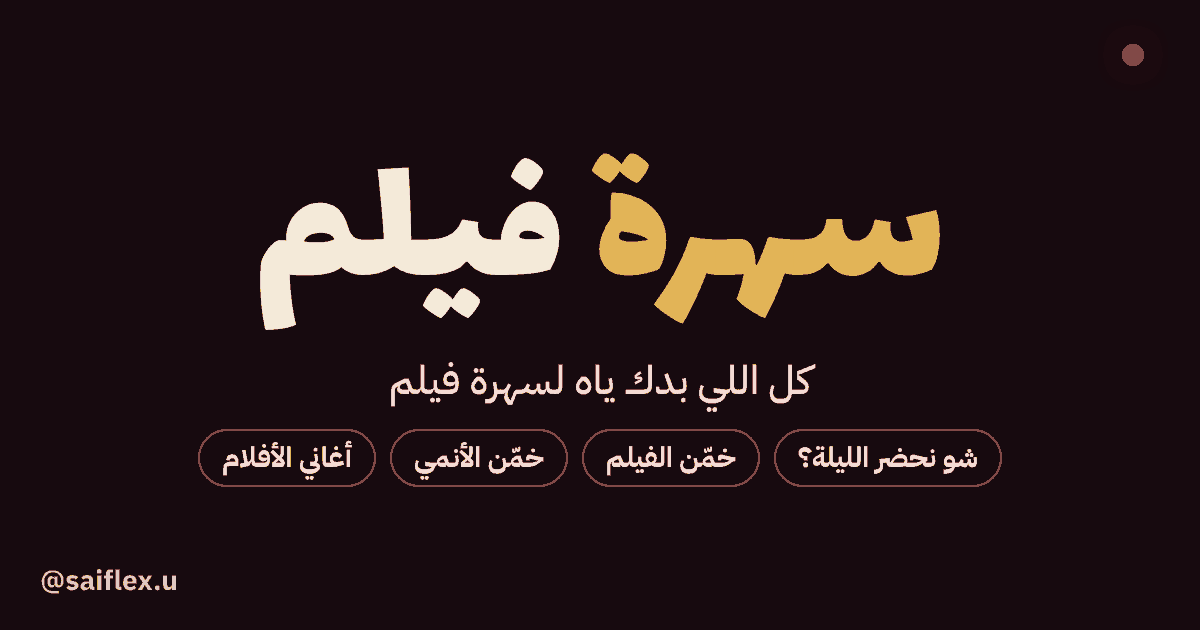
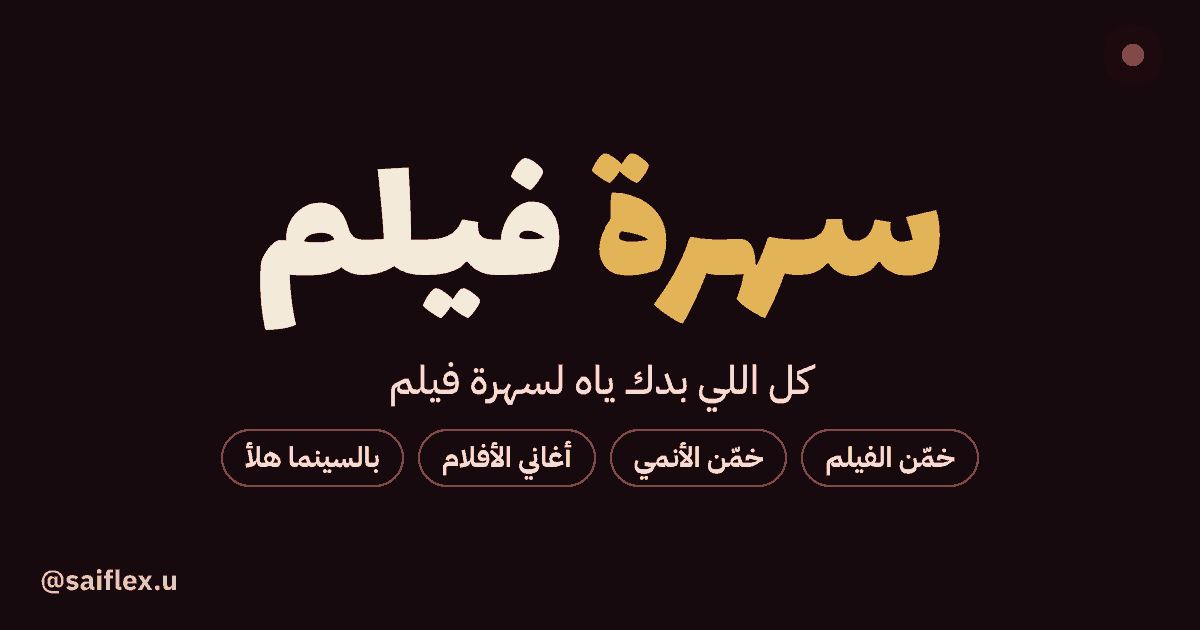
Remove 'شو نحضر الليلة' page and all links to it

Changed region(s): [[0.185, 0.6635, 0.8325, 0.7841]]

diff --git a/tonight.html b/tonight.html
@@ -1,158 +1,5 @@
 <!DOCTYPE html>
 <html lang="ar" dir="rtl">
-<head>
-<meta charset="utf-8">
-<meta name="viewport" content="width=device-width, initial-scale=1">
-<title>شو نحضر الليلة؟ | سهرة فيلم</title>
-<meta name="description" content="مش عارف شو تحضر الليلة؟ جاوب 3 أسئلة بسهرة فيلم وخذ فيلم واحد بيناسب مزاجك ووقتك واللي قاعدين معك.">
-<link rel="canonical" href="https://sahra-zblk.onrender.com/tonight.html">
-<meta property="og:site_name" content="سهرة فيلم">
-<meta property="og:type" content="website">
-<meta property="og:locale" content="ar_AE">
-<meta property="og:title" content="شو نحضر الليلة؟ | سهرة فيلم">
-<meta property="og:description" content="مش عارف شو تحضر الليلة؟ جاوب 3 أسئلة بسهرة فيلم وخذ فيلم واحد بيناسب مزاجك ووقتك واللي قاعدين معك.">
-<meta property="og:url" content="https://sahra-zblk.onrender.com/tonight.html">
-<meta property="og:image" content="https://sahra-zblk.onrender.com/og.png">
-<meta property="og:image:width" content="1200">
-<meta property="og:image:height" content="630">
-<meta name="twitter:card" content="summary_large_image">
-<meta name="theme-color" content="#170a0f">
-<link rel="icon" href="favicon.svg" type="image/svg+xml">
-<link rel="preconnect" href="https://fonts.googleapis.com">
-<link rel="preconnect" href="https://fonts.gstatic.com" crossorigin>
-<link href="https://fonts.googleapis.com/css2?family=Lalezar&family=IBM+Plex+Sans+Arabic:wght@400;500;700&display=swap" rel="stylesheet">
-<link rel="stylesheet" href="style.css">
-</head>
-<body data-page="tonight">
-<nav class="nav" aria-label="أقسام الموقع">
-  <div class="nav-in">
-    <a class="logo" href="index.html"><span class="dot" aria-hidden="true"></span>سهرة <b>فيلم</b></a>
-    <div class="nav-links">
-      <a href="tonight.html" data-page="tonight">شو نحضر الليلة؟</a>
-      <a href="game.html" data-page="game">خمّن الفيلم</a>
-      <a href="anime.html" data-page="anime">خمّن الأنمي</a>
-      <a href="music.html" data-page="music">أغاني الأفلام</a>
-      <a href="feedback.html" data-page="feedback">اقتراحاتك</a>
-      <a href="support.html" data-page="support" class="nav-support">ادعمنا ♥</a>
-    </div>
-  </div>
-</nav>
-<main class="wrap">
-  <header class="page-head">
-    <h1>شو نحضر الليلة؟</h1>
-    <p>مش قائمة طويلة تحتار فيها. ترشيح واحد من آلاف الأفلام بيناسب مزاجك ووقتك واللي قاعدين معك.</p>
-  </header>
-  <section class="hall" aria-label="الأسئلة والترشيح">
-    <div class="tonight">
-      <div class="qs">
-        <div class="q"><span class="q-label" id="q-with">مين معك؟</span><div class="chips" role="group" aria-labelledby="q-with" data-q="with"></div></div>
-        <div class="q"><span class="q-label" id="q-mood">شو مزاجك؟</span><div class="chips" role="group" aria-labelledby="q-mood" data-q="mood"></div></div>
-        <div class="q"><span class="q-label" id="q-time">قديش عندك وقت؟</span><div class="chips" role="group" aria-labelledby="q-time" data-q="time"></div></div>
-        <div class="q"><span class="q-label" id="q-type">شو بدك تحضر؟</span><div class="chips" role="group" aria-labelledby="q-type" data-q="type"></div></div>
-      </div>
-      <div><article class="ticket" id="pick" aria-live="polite"><p class="why">عم نجهّز الأفلام…</p></article></div>
-    </div>
-  </section>
-</main>
-<footer>
-  <div class="wrap">
-    <span>سهرة فيلم · فكرة وإعداد saiflex · <span id="updated" class="updated"></span></span>
-    <a class="credits" href="credits.html">المصادر</a>
-  </div>
-</footer>
-<script src="curated.js"></script>
-<script src="common.js"></script>
-<script>
-const MOOD_AR = {think:"بدي أفكّر",laugh:"بدي أضحك",cry:"بدي أبكي",action:"بدي أكشن",scare:"بدي أخاف"};
-// need: لازم يكون من نوعه، also: قريب منه، bad: بيخرب المزاج (مثلاً الطفيلي كوميدي بس كمان إثارة وجريمة)
-const MOOD_G = {
-  laugh: {need:[35], also:[], bad:[27,53,80,10752,9648,99,36], soft:[18]},
-  scare: {need:[27], also:[53], bad:[35,10751,16,10749,10402], soft:[]},
-  cry:   {need:[18], also:[10749,10751,10402,36,10752,16], bad:[35,27,28,878,14,12,80,53], soft:[]},
-  action:{need:[28], also:[12,10752,37], bad:[10749,99,10402,27], soft:[18,35]},
-  think: {need:[9648,878], also:[80,99,36,53], bad:[35,10751,16,10749,10402,12], soft:[28]},
-};
-const moodFit = f => { const g = f.g || [], m = MOOD_G[state.mood]; return m.need.some(x => g.includes(x)) ? 2 : m.also.some(x => g.includes(x)) ? 1 : 0; };
-const WITH_G = {family:[10751,16], partner:[10749,18,35], friends:[35,28,27,53,80], alone:[18,878,9648,53,99]};
-const QUESTIONS = {
-  with:[["alone","لحالي"],["partner","مع حدا قريب"],["family","مع العيلة"],["friends","مع الشباب"]],
-  mood:Object.entries(MOOD_AR),
-  time:[["short","ساعة ونص"],["mid","ساعتين"],["long","الليل كله"]],
-  type:[["any","أي شي"],["foreign","أجنبي"],["arab","عربي"],["anime","أنمي"]]
-};
-const state = {with:"friends",mood:"think",time:"long",type:"any"};
-let ranked = [], rankPos = 0;
-const today = new Date().toISOString().slice(0, 10);
-
-function buildChips() {
-  document.querySelectorAll(".chips").forEach(box => {
-    const q = box.dataset.q;
-    QUESTIONS[q].forEach(([val, label]) => {
-      const b = el("button", {type:"button", class:"chip", "aria-pressed":String(state[q] === val), "data-v":val}, label);
-      b.addEventListener("click", () => {
-        state[q] = val;
-        box.querySelectorAll(".chip").forEach(c => c.setAttribute("aria-pressed", String(c.dataset.v === val)));
-        recommend();
-      });
-      box.appendChild(b);
-    });
-  });
-}
-function score(f) {
-  const g = f.g || [];
-  const has = arr => arr.some(x => g.includes(x));
-  let s = 0;
-  const m = MOOD_G[state.mood], fit = moodFit(f);
-  s += fit === 2 ? 14 : fit === 1 ? 5 : -20;
-  if (fit === 2 && m.also.some(x => g.includes(x))) s += 5;
-  s -= 9 * m.bad.filter(x => g.includes(x)).length + 5 * m.soft.filter(x => g.includes(x)).length;
-  if (has(WITH_G[state.with])) s += 3;
-  if (state.with === "family" && g.includes(27)) s -= 20;
-  const max = {short:110, mid:140, long:999}[state.time];
-  if (f.rt) s += f.rt <= max ? 3 : -Math.min(8, (f.rt - max) / 10);
-  const rating = f.ir || f.tv || 6;
-  s += Math.min(rating - 6, 3) * 2 + Math.log10(1 + (f.iv || f.tc || 0)) * 0.6;
-  return s + Math.random() * 2.5;
-}
-function recommend() {
-  const pool = FILMS
-    .filter(f => !f.rd || f.rd <= today)
-    .filter(f => !f.rt || f.rt >= 60)
-    .filter(f => (f.ir || f.tv || 0) >= 6.2)
-    .filter(f => state.type === "any" || typeOf(f) === state.type);
-  const m = MOOD_G[state.mood];
-  const clean = pool.filter(f => moodFit(f) === 2 && !m.bad.some(x => (f.g || []).includes(x)));
-  ranked = (clean.length >= 8 ? clean : pool)
-    .map(f => [score(f), f]).sort((a, b) => b[0] - a[0]).slice(0, 40).map(x => x[1]);
-  rankPos = 0; renderPick();
-}
-function renderPick() {
-  const box = $("#pick");
-  if (!ranked.length) { box.innerHTML = `<p class="why">ما لقينا فيلم بهالاختيارات. جرّب تغيّر نوع الفيلم أو الوقت.</p>`; return; }
-  const f = ranked[rankPos % ranked.length];
-  const why = note(f)?.why || f.ov || "";
-  const genres = (f.g || []).slice(0, 3).map(x => GENRE_AR[x]).filter(Boolean);
-  const music = MUSIC[keyOf(f)] || f.tr;
-  box.innerHTML = `
-    <div class="ticket-top"><span>تذكرة الليلة · ${rankPos % ranked.length + 1}/${ranked.length}</span><span>${TYPE_AR[typeOf(f)]} · ${f.y || ""}</span></div>
-    <div class="pick-wrap">${posterBox(f, "w342")}
-      <div style="display:grid;gap:8px">
-        <div><h3>${esc(titleAr(f))}</h3>${titleAr(f) !== f.en ? `<div class="en">${esc(f.en)}</div>` : ""}</div>
-        <div class="meta">${badges(f)}<span class="tag">⏱ ${timeLabel(f.rt)}</span>${genres.map(x => `<span class="tag">${x}</span>`).join("")}</div>
-        <p class="why">${esc(why)}</p>
-        ${f.pr?.length ? `<div class="prov">متوفر بالإمارات على: <b>${f.pr.map(esc).join("، ")}</b></div>` : f.rb ? `<div class="prov">متوفر للإيجار أو الشراء بالإمارات</div>` : ""}
-      </div>
-    </div>
-    <div class="perf" aria-hidden="true"></div>
-    <div class="actions">
-      <a class="btn btn-red" href="${watchUrl(f)}" target="_blank" rel="noopener">وين أحضره بالإمارات ↗</a>
-      ${music ? `<a class="btn btn-ghost" href="music.html?f=${encodeURIComponent(f.id || keyOf(f))}">♫ أغانيه والتريلر</a>` : ""}
-      <button class="btn btn-ghost" type="button" id="another">رشّحلي غيره</button>
-    </div>`;
-  $("#another").addEventListener("click", () => { rankPos++; renderPick(); });
-}
-buildChips();
-loadFilms().then(recommend);
-</script>
-</body>
+<head><meta charset="utf-8"><meta name="robots" content="noindex"><meta http-equiv="refresh" content="0; url=index.html"><link rel="canonical" href="https://sahra-zblk.onrender.com/"><title>سهرة فيلم</title></head>
+<body><a href="index.html">سهرة فيلم</a></body>
 </html>

diff --git a/index.html b/index.html
@@ -3,14 +3,14 @@
 <head>
 <meta charset="utf-8">
 <meta name="viewport" content="width=device-width, initial-scale=1">
-<title>سهرة فيلم | شو نحضر الليلة، ألعاب أفلام وأنمي وأغاني الأفلام</title>
-<meta name="description" content="سهرة فيلم: موقع عربي للأفلام. اختار فيلم الليلة بثلاث أسئلة، العب خمّن الفيلم وخمّن الأنمي مع صحابك، واسمع أغاني الأفلام، وشوف شو بالسينما هلأ بالإمارات.">
+<title>سهرة فيلم | ألعاب أفلام وأنمي وأغاني الأفلام</title>
+<meta name="description" content="سهرة فيلم: موقع عربي للأفلام. العب خمّن الفيلم وخمّن الأنمي مع صحابك، واسمع أغاني الأفلام، وشوف شو بالسينما هلأ بالإمارات.">
 <link rel="canonical" href="https://sahra-zblk.onrender.com/">
 <meta property="og:site_name" content="سهرة فيلم">
 <meta property="og:type" content="website">
 <meta property="og:locale" content="ar_AE">
-<meta property="og:title" content="سهرة فيلم | شو نحضر الليلة، ألعاب أفلام وأنمي وأغاني الأفلام">
-<meta property="og:description" content="سهرة فيلم: موقع عربي للأفلام. اختار فيلم الليلة بثلاث أسئلة، العب خمّن الفيلم وخمّن الأنمي مع صحابك، واسمع أغاني الأفلام، وشوف شو بالسينما هلأ بالإمارات.">
+<meta property="og:title" content="سهرة فيلم | ألعاب أفلام وأنمي وأغاني الأفلام">
+<meta property="og:description" content="سهرة فيلم: موقع عربي للأفلام. العب خمّن الفيلم وخمّن الأنمي مع صحابك، واسمع أغاني الأفلام، وشوف شو بالسينما هلأ بالإمارات.">
 <meta property="og:url" content="https://sahra-zblk.onrender.com/">
 <meta property="og:image" content="https://sahra-zblk.onrender.com/og.png">
 <meta property="og:image:width" content="1200">
@@ -22,14 +22,13 @@
 <link rel="preconnect" href="https://fonts.gstatic.com" crossorigin>
 <link href="https://fonts.googleapis.com/css2?family=Lalezar&family=IBM+Plex+Sans+Arabic:wght@400;500;700&display=swap" rel="stylesheet">
 <link rel="stylesheet" href="style.css">
-<script type="application/ld+json">{"@context": "https://schema.org", "@type": "WebSite", "name": "سهرة فيلم", "alternateName": ["سهرة", "Sahra Film", "Sahra", "سهرة أفلام"], "url": "https://sahra-zblk.onrender.com/", "inLanguage": "ar", "description": "سهرة فيلم: موقع عربي للأفلام. اختار فيلم الليلة بثلاث أسئلة، العب خمّن الفيلم وخمّن الأنمي مع صحابك، واسمع أغاني الأفلام، وشوف شو بالسينما هلأ بالإمارات.", "publisher": {"@type": "Person", "name": "saiflex", "url": "https://www.instagram.com/saiflex.u/", "sameAs": ["https://www.instagram.com/saiflex.u/"]}}</script>
+<script type="application/ld+json">{"@context": "https://schema.org", "@type": "WebSite", "name": "سهرة فيلم", "alternateName": ["سهرة", "Sahra Film", "Sahra", "سهرة أفلام"], "url": "https://sahra-zblk.onrender.com/", "inLanguage": "ar", "description": "سهرة فيلم: موقع عربي للأفلام. العب خمّن الفيلم وخمّن الأنمي مع صحابك، واسمع أغاني الأفلام، وشوف شو بالسينما هلأ بالإمارات.", "publisher": {"@type": "Person", "name": "saiflex", "url": "https://www.instagram.com/saiflex.u/", "sameAs": ["https://www.instagram.com/saiflex.u/"]}}</script>
 </head>
 <body data-page="index">
 <nav class="nav" aria-label="أقسام الموقع">
   <div class="nav-in">
     <a class="logo" href="index.html"><span class="dot" aria-hidden="true"></span>سهرة <b>فيلم</b></a>
     <div class="nav-links">
-      <a href="tonight.html" data-page="tonight">شو نحضر الليلة؟</a>
       <a href="game.html" data-page="game">خمّن الفيلم</a>
       <a href="anime.html" data-page="anime">خمّن الأنمي</a>
       <a href="music.html" data-page="music">أغاني الأفلام</a>
@@ -41,7 +40,7 @@
 <main class="wrap">
   <header class="hero">
     <h1>كل اللي بدك ياه <span>لسهرة فيلم</span></h1>
-    <p>ترشيح فيلم واحد للّيلة، لعبتين "خمّن الفيلم" و"خمّن الأنمي" مع صحابك، وأغاني الأفلام اللي علقت براسك. والأفلام بتتحدّث لحالها كل ساعة.</p>
+    <p>لعبتين "خمّن الفيلم" و"خمّن الأنمي" تلعبهم مع صحابك، وأغاني الأفلام اللي علقت براسك، وشو بالسينما هلأ بالإمارات. والأفلام بتتحدّث لحالها كل ساعة.</p>
   </header>
   <a class="promo" href="contest.html" id="promo">
     <span class="pi" aria-hidden="true">🎟</span>
@@ -49,10 +48,9 @@
     <span class="go">شارك ←</span>
   </a>
   <div class="cards">
-    <a class="card" href="tonight.html"><span class="hall-no">صالة ١</span><h2>شو نحضر الليلة؟</h2><p>جاوب ٣ أسئلة وخذ فيلم واحد بيناسب مزاجك ووقتك واللي قاعدين معك.</p><span class="go">ابدأ ←</span></a>
-    <a class="card" href="game.html"><span class="hall-no">صالة ٢</span><h2>خمّن الفيلم</h2><p>الحكم بيعمل غرفة بباركود، والفريقين بيدخلوا من تلفوناتهم ويسألوا لحد ما حدا يعرف الفيلم.</p><span class="go">اعمل غرفة ←</span></a>
-    <a class="card" href="anime.html"><span class="hall-no">صالة ٣</span><h2>خمّن الأنمي</h2><p>نفس لعبة الغرف بس للأنمي: الحكم بيختار أنمي ومعه 15 هنت، والفريقين بيخمّنوا من تلفوناتهم.</p><span class="go">اعمل غرفة ←</span></a>
-    <a class="card" href="music.html"><span class="hall-no">صالة ٤</span><h2>أغاني الأفلام</h2><p>اكتب اسم أي فيلم واسمع أغانيه وتريلره هون، أو افتحها على يوتيوب.</p><span class="go">دوّر على فيلم ←</span></a>
+    <a class="card" href="game.html"><span class="hall-no">صالة ١</span><h2>خمّن الفيلم</h2><p>الحكم بيعمل غرفة بباركود، والفريقين بيدخلوا من تلفوناتهم ويسألوا لحد ما حدا يعرف الفيلم.</p><span class="go">اعمل غرفة ←</span></a>
+    <a class="card" href="anime.html"><span class="hall-no">صالة ٢</span><h2>خمّن الأنمي</h2><p>نفس لعبة الغرف بس للأنمي: الحكم بيختار أنمي ومعه 15 هنت، والفريقين بيخمّنوا من تلفوناتهم.</p><span class="go">اعمل غرفة ←</span></a>
+    <a class="card" href="music.html"><span class="hall-no">صالة ٣</span><h2>أغاني الأفلام</h2><p>اكتب اسم أي فيلم واسمع أغانيه وتريلره هون، أو افتحها على يوتيوب.</p><span class="go">دوّر على فيلم ←</span></a>
   </div>
   <section aria-labelledby="s-now">
     <div class="strip-head"><h2 id="s-now">بالسينما هلأ بالإمارات</h2></div>

diff --git a/contest.html b/contest.html
@@ -85,7 +85,6 @@ bdi{white-space:nowrap}
   <div class="nav-in">
     <a class="logo" href="index.html"><span class="dot" aria-hidden="true"></span>سهرة <b>فيلم</b></a>
     <div class="nav-links">
-      <a href="tonight.html" data-page="tonight">شو نحضر الليلة؟</a>
       <a href="game.html" data-page="game">خمّن الفيلم</a>
       <a href="anime.html" data-page="anime">خمّن الأنمي</a>
       <a href="music.html" data-page="music">أغاني الأفلام</a>
@@ -135,7 +134,7 @@ bdi{white-space:nowrap}
       <li><div><h3>تابع <bdi dir="ltr">@saiflex.u</bdi> على إنستغرام</h3><p>بنتأكد من المتابعة وقت السحب.</p>
         <div class="actions"><a class="btn btn-ghost" href="https://www.instagram.com/saiflex.u/" target="_blank" rel="noopener">افتح الحساب ←</a></div></div></li>
       <li class="extra"><div><h3>فرصة إضافية: العب بسهرة فيلم</h3><p>العب أي إشي بالموقع، خذ سكرين شوت، وارفعها بالاستمارة. اسمك بيدخل السحب مرتين.</p>
-        <div class="actions"><a class="btn btn-ghost" href="tonight.html" target="_blank">شو نحضر الليلة؟</a><a class="btn btn-ghost" href="game.html" target="_blank">خمّن الفيلم</a><a class="btn btn-ghost" href="anime.html" target="_blank">خمّن الأنمي</a></div></div></li>
+        <div class="actions"><a class="btn btn-ghost" href="game.html" target="_blank">خمّن الفيلم</a><a class="btn btn-ghost" href="anime.html" target="_blank">خمّن الأنمي</a><a class="btn btn-ghost" href="music.html" target="_blank">أغاني الأفلام</a></div></div></li>
     </ol>
   </section>
 
@@ -151,7 +150,7 @@ bdi{white-space:nowrap}
       <h2>إنت بالسحب! 🎟</h2>
       <p id="done-msg">وصلت مشاركتك. السحب لايف على إنستغرام <bdi dir="ltr">@saiflex.u</bdi> يوم 13 ديسمبر، فتأكد إنك متابع.</p>
       <p>ولحد ذلك الوقت، شو رأيك تجرّب الموقع؟</p>
-      <div class="actions"><a class="btn btn-gold" href="tonight.html">شو نحضر الليلة؟ ←</a><a class="btn btn-ghost" href="game.html">اعمل غرفة خمّن الفيلم مع صحابك</a></div>
+      <div class="actions"><a class="btn btn-gold" href="game.html">اعمل غرفة خمّن الفيلم مع صحابك ←</a><a class="btn btn-ghost" href="anime.html">خمّن الأنمي</a></div>
     </div>
 
     <form id="cf" class="form" novalidate>

diff --git a/anime.html b/anime.html
@@ -29,7 +29,6 @@
   <div class="nav-in">
     <a class="logo" href="index.html"><span class="dot" aria-hidden="true"></span>سهرة <b>فيلم</b></a>
     <div class="nav-links">
-      <a href="tonight.html" data-page="tonight">شو نحضر الليلة؟</a>
       <a href="game.html" data-page="game">خمّن الفيلم</a>
       <a href="anime.html" data-page="anime">خمّن الأنمي</a>
       <a href="music.html" data-page="music">أغاني الأفلام</a>

diff --git a/credits.html b/credits.html
@@ -28,7 +28,6 @@
   <div class="nav-in">
     <a class="logo" href="index.html"><span class="dot" aria-hidden="true"></span>سهرة <b>فيلم</b></a>
     <div class="nav-links">
-      <a href="tonight.html" data-page="tonight">شو نحضر الليلة؟</a>
       <a href="game.html" data-page="game">خمّن الفيلم</a>
       <a href="anime.html" data-page="anime">خمّن الأنمي</a>
       <a href="music.html" data-page="music">أغاني الأفلام</a>

diff --git a/feedback.html b/feedback.html
@@ -28,7 +28,6 @@
   <div class="nav-in">
     <a class="logo" href="index.html"><span class="dot" aria-hidden="true"></span>سهرة <b>فيلم</b></a>
     <div class="nav-links">
-      <a href="tonight.html" data-page="tonight">شو نحضر الليلة؟</a>
       <a href="game.html" data-page="game">خمّن الفيلم</a>
       <a href="anime.html" data-page="anime">خمّن الأنمي</a>
       <a href="music.html" data-page="music">أغاني الأفلام</a>

diff --git a/game.html b/game.html
@@ -29,7 +29,6 @@
   <div class="nav-in">
     <a class="logo" href="index.html"><span class="dot" aria-hidden="true"></span>سهرة <b>فيلم</b></a>
     <div class="nav-links">
-      <a href="tonight.html" data-page="tonight">شو نحضر الليلة؟</a>
       <a href="game.html" data-page="game">خمّن الفيلم</a>
       <a href="anime.html" data-page="anime">خمّن الأنمي</a>
       <a href="music.html" data-page="music">أغاني الأفلام</a>

diff --git a/music.html b/music.html
@@ -28,7 +28,6 @@
   <div class="nav-in">
     <a class="logo" href="index.html"><span class="dot" aria-hidden="true"></span>سهرة <b>فيلم</b></a>
     <div class="nav-links">
-      <a href="tonight.html" data-page="tonight">شو نحضر الليلة؟</a>
       <a href="game.html" data-page="game">خمّن الفيلم</a>
       <a href="anime.html" data-page="anime">خمّن الأنمي</a>
       <a href="music.html" data-page="music">أغاني الأفلام</a>

diff --git a/support.html b/support.html
@@ -28,7 +28,6 @@
   <div class="nav-in">
     <a class="logo" href="index.html"><span class="dot" aria-hidden="true"></span>سهرة <b>فيلم</b></a>
     <div class="nav-links">
-      <a href="tonight.html" data-page="tonight">شو نحضر الليلة؟</a>
       <a href="game.html" data-page="game">خمّن الفيلم</a>
       <a href="anime.html" data-page="anime">خمّن الأنمي</a>
       <a href="music.html" data-page="music">أغاني الأفلام</a>
